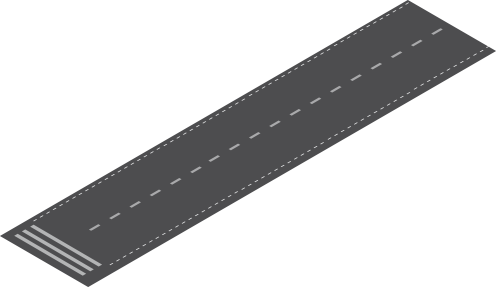
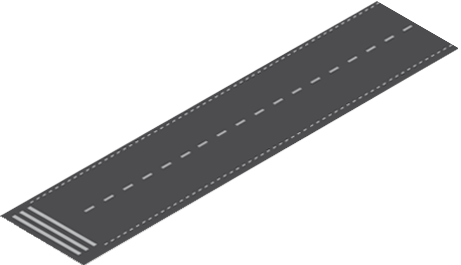
even more buildings mapped.

diff --git a/src/components/Stage.tsx b/src/components/Stage.tsx
@@ -1,7 +1,7 @@
 import React from 'react';
 import * as PIXI from "pixi.js";
 import CementPlot from './items/plots/CementPlot';
-import Whatever from './items/buildings/office/OfficeGlassThreeStory';
+import Whatever from './items/doodads/Runway';
 
 export default class Stage extends React.Component<any, any> {
     private app:PIXI.Application;
@@ -22,7 +22,7 @@ export default class Stage extends React.Component<any, any> {
 
         let item = new Whatever();
         grass.addItem(item);
-        item.flip();
+        // item.flip();
         grass.setItemSlotPosition(1, 0, 0);
 
         this.app.stage.addChild(grass);

diff --git a/src/components/items/buildings/office/OfficeLongWindowsFourStory.tsx b/src/components/items/buildings/office/OfficeLongWindowsFourStory.tsx
@@ -1,0 +1,14 @@
+import BaseItem from "../../BaseItem";
+import img from "../../../../img/office-long-windows-4-story.png";
+
+export default class OfficeLongWindowsFourStory extends BaseItem {
+    constructor() {
+        super({
+            width: 127,
+            height: 146,
+            xCorrection: -11,
+            yCorrection: -18,
+            img
+        });
+    }
+}

diff --git a/src/components/items/buildings/office/OfficeGlassVeryLarge.tsx b/src/components/items/buildings/office/OfficeGlassVeryLarge.tsx
@@ -1,0 +1,14 @@
+import BaseItem from "../../BaseItem";
+import img from "../../../../img/office-glass-very-large.png";
+
+export default class OfficeGlassVeryLarge extends BaseItem {
+    constructor() {
+        super({
+            width: 145,
+            height: 328,
+            xCorrection: -4,
+            yCorrection: -18,
+            img
+        });
+    }
+}

diff --git a/src/components/items/buildings/office/OfficeGlassFourStory.tsx b/src/components/items/buildings/office/OfficeGlassFourStory.tsx
@@ -1,0 +1,14 @@
+import BaseItem from "../../BaseItem";
+import img from "../../../../img/office-glass-4-story.png";
+
+export default class OfficeGlassFourStory extends BaseItem {
+    constructor() {
+        super({
+            width: 103,
+            height: 115,
+            xCorrection: 0,
+            yCorrection: -16,
+            img
+        });
+    }
+}

diff --git a/src/components/items/buildings/office/OfficeGlassSixStory.tsx b/src/components/items/buildings/office/OfficeGlassSixStory.tsx
@@ -1,0 +1,14 @@
+import BaseItem from "../../BaseItem";
+import img from "../../../../img/office-glass-6-story.png";
+
+export default class OfficeGlassSixStory extends BaseItem {
+    constructor() {
+        super({
+            width: 135,
+            height: 198,
+            xCorrection: 0,
+            yCorrection: -16,
+            img
+        });
+    }
+}

diff --git a/src/components/items/buildings/office/OfficeGlassMedium.tsx b/src/components/items/buildings/office/OfficeGlassMedium.tsx
@@ -1,0 +1,14 @@
+import BaseItem from "../../BaseItem";
+import img from "../../../../img/office-glass-medium.png";
+
+export default class OfficeGlassMedium extends BaseItem {
+    constructor() {
+        super({
+            width: 129,
+            height: 252,
+            xCorrection: -10,
+            yCorrection: -16,
+            img
+        });
+    }
+}

diff --git a/src/components/items/buildings/airport/PlaneLargeToward.tsx b/src/components/items/buildings/airport/PlaneLargeToward.tsx
@@ -1,0 +1,14 @@
+import BaseItem from "../../BaseItem";
+import img from "../../../../img/plane-large-toward.png";
+
+export default class PlaneLargeToward extends BaseItem {
+    constructor() {
+        super({
+            width: 138,
+            height: 83,
+            xCorrection: -12,
+            yCorrection: -50,
+            img
+        });
+    }
+}

diff --git a/src/components/items/buildings/office/OfficeGlassLarge.tsx b/src/components/items/buildings/office/OfficeGlassLarge.tsx
@@ -1,0 +1,14 @@
+import BaseItem from "../../BaseItem";
+import img from "../../../../img/office-glass-large.png";
+
+export default class OfficeGlassLarge extends BaseItem {
+    constructor() {
+        super({
+            width: 120,
+            height: 308,
+            xCorrection: 15,
+            yCorrection: -14,
+            img
+        });
+    }
+}

diff --git a/src/components/items/buildings/airport/PlaneSmallToward.tsx b/src/components/items/buildings/airport/PlaneSmallToward.tsx
@@ -1,0 +1,14 @@
+import BaseItem from "../../BaseItem";
+import img from "../../../../img/plane-small-toward.png";
+
+export default class PlaneSmallToward extends BaseItem {
+    constructor() {
+        super({
+            width: 95,
+            height: 58,
+            xCorrection: -10,
+            yCorrection: -40,
+            img
+        });
+    }
+}

diff --git a/src/components/items/buildings/office/OfficeGlassShort.tsx b/src/components/items/buildings/office/OfficeGlassShort.tsx
@@ -1,0 +1,14 @@
+import BaseItem from "../../BaseItem";
+import img from "../../../../img/office-glass-short.png";
+
+export default class OfficeGlassShort extends BaseItem {
+    constructor() {
+        super({
+            width: 113,
+            height: 111,
+            xCorrection: 0,
+            yCorrection: -16,
+            img
+        });
+    }
+}

diff --git a/src/components/items/buildings/office/OfficeSmallGlass.tsx b/src/components/items/buildings/office/OfficeSmallGlass.tsx
@@ -1,0 +1,14 @@
+import BaseItem from "../../BaseItem";
+import img from "../../../../img/office-small-glass.png";
+
+export default class OfficeSmallGlass extends BaseItem {
+    constructor() {
+        super({
+            width: 107,
+            height: 100,
+            xCorrection: 7,
+            yCorrection: -18,
+            img
+        });
+    }
+}

diff --git a/src/components/items/buildings/airport/PlaneLargeAway.tsx b/src/components/items/buildings/airport/PlaneLargeAway.tsx
@@ -1,0 +1,14 @@
+import BaseItem from "../../BaseItem";
+import img from "../../../../img/plane-large-away.png";
+
+export default class PlaneLargeAway extends BaseItem {
+    constructor() {
+        super({
+            width: 136,
+            height: 73,
+            xCorrection: 12,
+            yCorrection: -32,
+            img
+        });
+    }
+}
